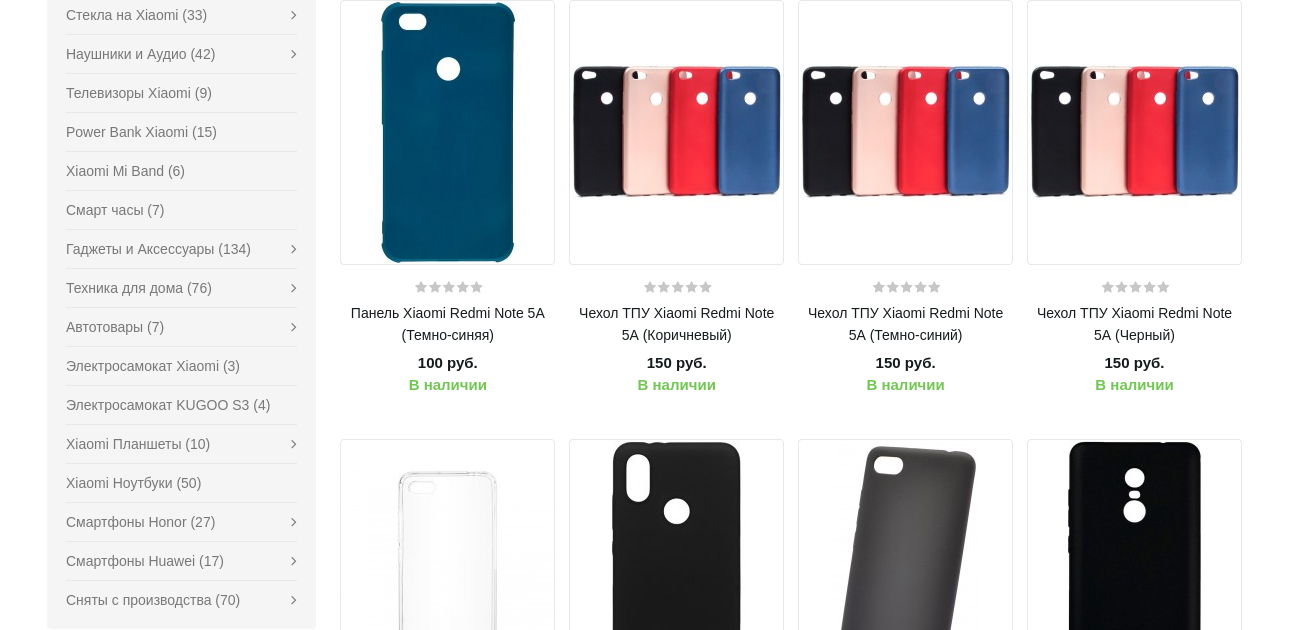
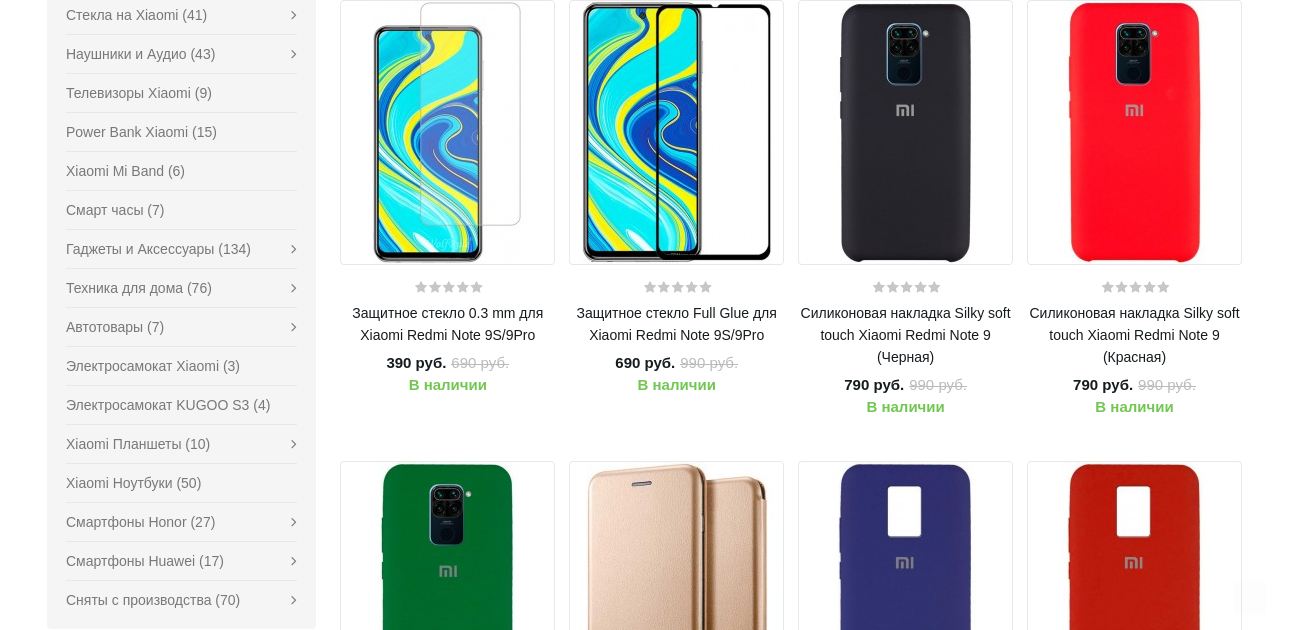
update README.md

diff --git a/README.md b/README.md
@@ -1,1 +1,47 @@
-# selenium_parsing_onlineshop_infotecs
+# Парсер интернет магазина
+Данная программа получает самую низкую цену, указанного названия товара, как аргумент. После этого сохраняет скриншот списка товаров с низкими ценами в папку screenshots. 
+<br>Используемый интернет магазин - <https://mistoreufa.ru>
+
+## Установка проекта
+```
+git clone https://github.com/PanovYuri/selenium_parsing_onlineshop_infotecs.git
+```
+
+## Как работает программа
+Составление URL адреса.
+```
+private static final String URL = "https://mistoreufa.ru/index.php?route=product/isearch&sort=p.price&order=ASC&search=%s";
+...
+driver = new FirefoxDriver();
+driver.get(String.format(URL, args[0]));
+```
+HTML товара
+```
+<div class="caption">
+    <h4>
+        <a href="...">Название продукта</a>
+    </h4>
+    <p class="price">
+        <span class="price-new">Новая цена</span>
+        <span class="price-old">Старая цена</span>
+    </p>
+</div>
+```
+Для захвата нескольких товаров для скриншота требуется прокрутить страницу
+```
+((JavascriptExecutor) driver)
+    .executeScript("arguments[0].scrollIntoView(true);", productBlock);
+```
+
+## Пример работы
+Название товара ***redmi note 9***
+```
+https://mistoreufa.ru/index.php?route=product/isearch&sort=p.price&order=ASC&search=redmi
+```
+Вывод программы
+```
+Защитное стекло 0.3 mm для Xiaomi Redmi Note 9S/9Pro: 390 руб.
+Сохранение скриншота завершилась успешно
+```
+Созданый скриншот 
+![Скриншот браузера](figure/example_screenshot.jpg)
